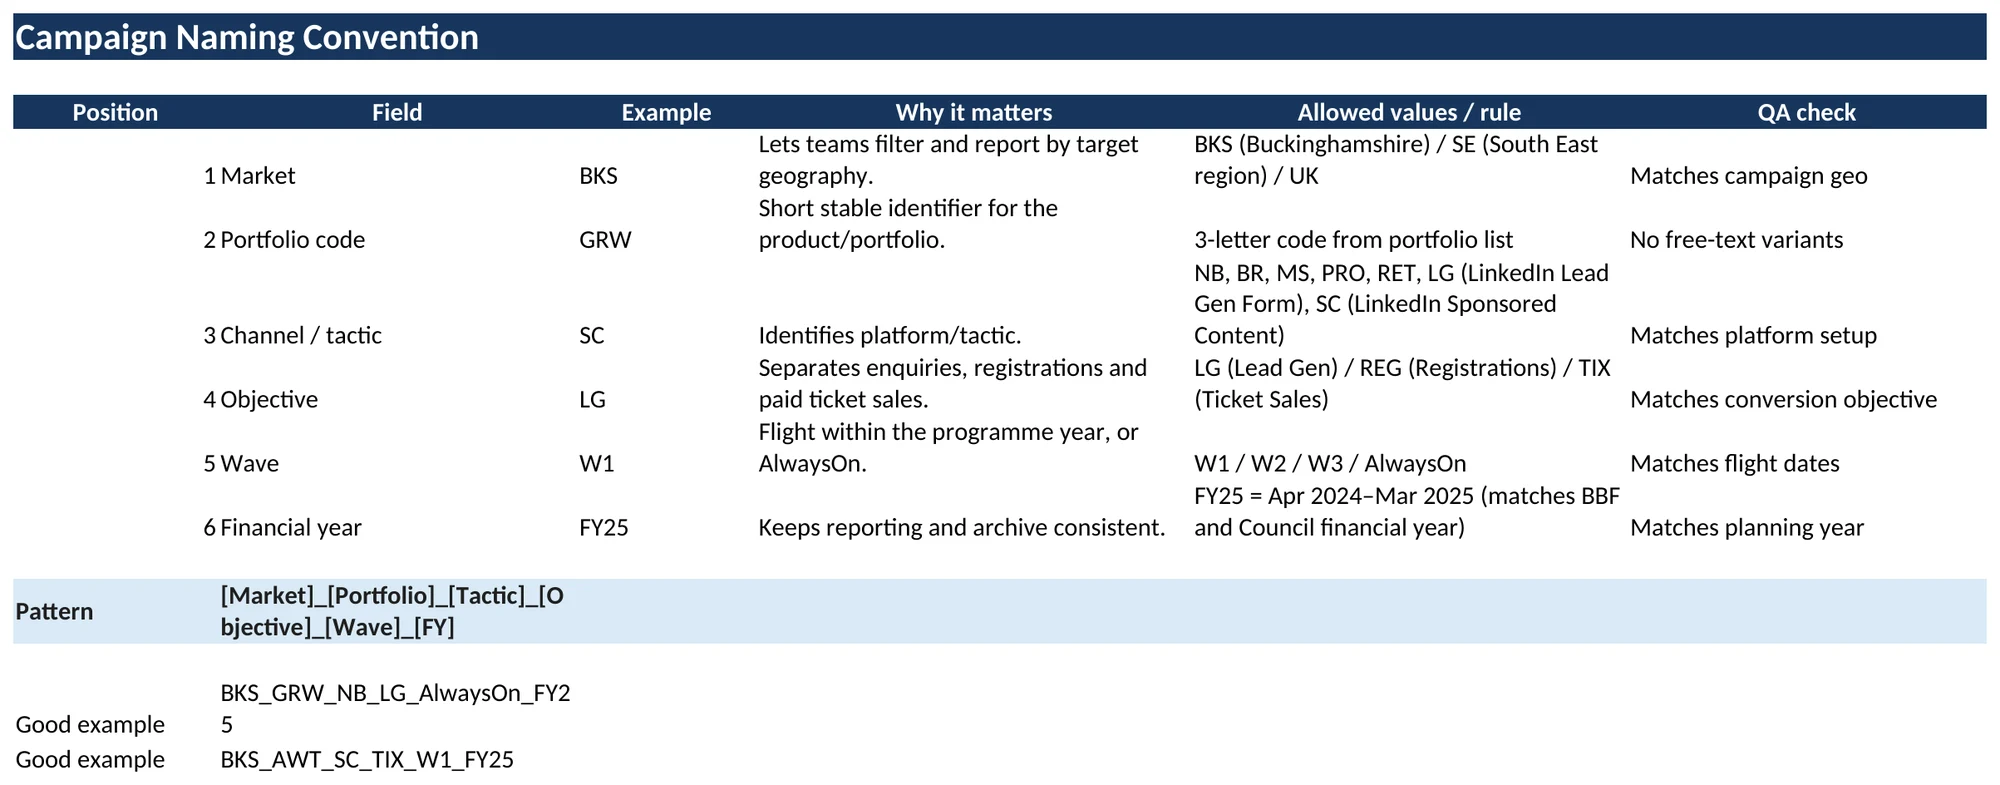
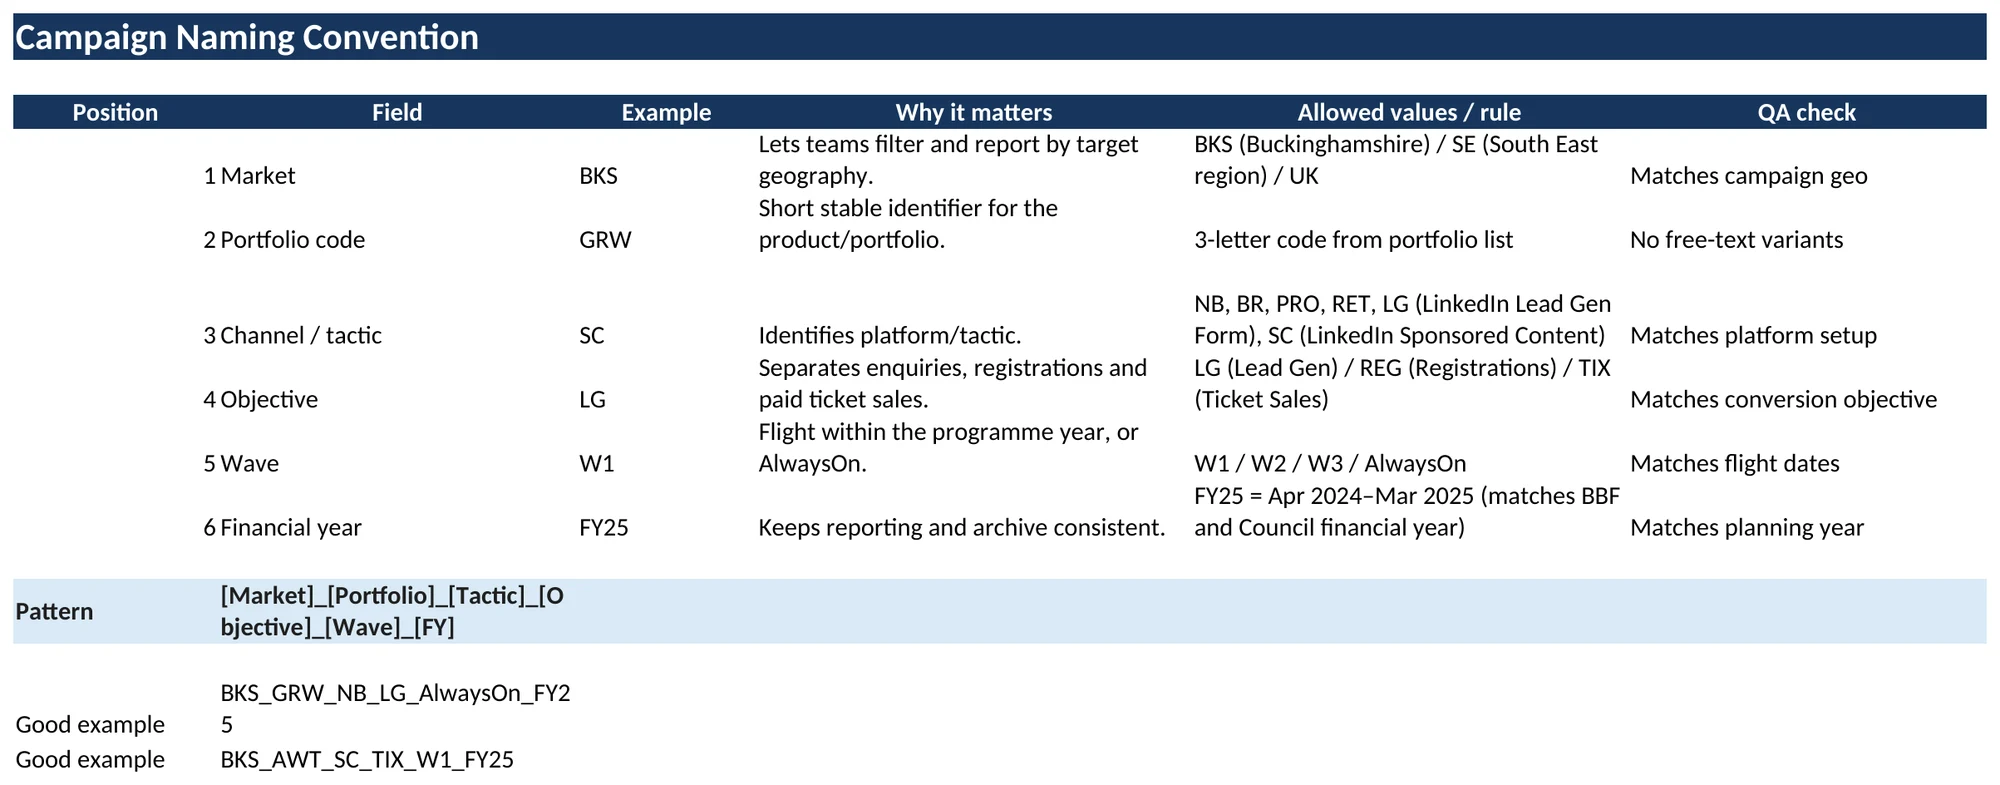
Update workbook screenshots from corrected spreadsheet
Claude-Session: https://claude.ai/code/session_01RhkXi8NosVPc171cTS79RY

Changed region(s): [[0.589, 0.3363, 0.806, 0.4586]]

diff --git a/src/App.tsx b/src/App.tsx
@@ -512,9 +512,9 @@ function PaidMediaSection() {
           <div className="camilla-method-heading">
             <div>
               <div className="camilla-kicker">How I work · Paid media control system</div>
-              <h3 id="camilla-method-title">120 campaigns.<br /><em>One Monday list.</em></h3>
+              <h3 id="camilla-method-title">109 campaigns.<br /><em>One Monday list.</em></h3>
             </div>
-            <p>I built this workbook to show how I run a paid portfolio day to day. It maps 120 campaigns across Google, Microsoft, Meta and LinkedIn onto BBF and Bucks Skills Hub’s FY 2024/25 programme calendar, from the Net Zero Summit to the Skills Show.</p>
+            <p>I built this workbook to show how I run a paid portfolio day to day. It maps 109 campaigns across Google, Meta and LinkedIn onto BBF and Bucks Skills Hub’s FY 2024/25 programme calendar, from the Net Zero Summit to the Skills Show. The Skills Show TikTok and YouTube ads shown above ran separately and aren’t included.</p>
           </div>
 
           <div className="camilla-method-week">
